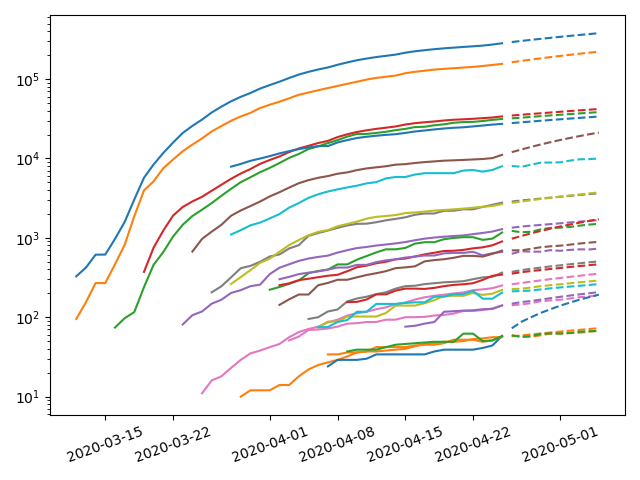
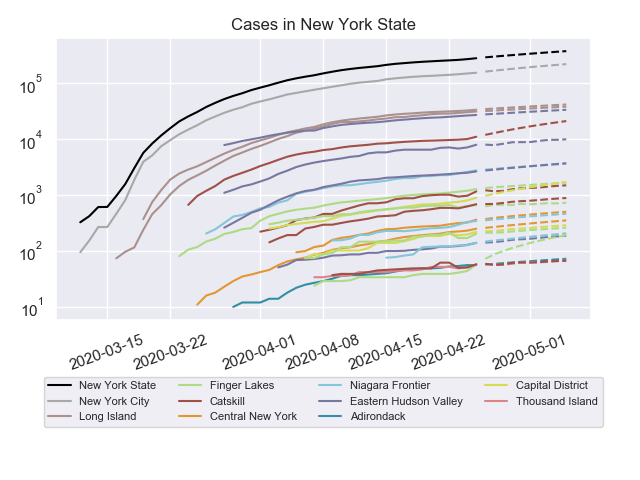
Adding Files

diff --git a/AutoCorrelation_County.py b/AutoCorrelation_County.py
@@ -1,91 +1,124 @@
 import datetime
 import pandas as pd
 import matplotlib.pyplot as plt
+import seaborn as sns
 
-def Build_Data()
-    Data=pd.read_csv('data/csv/time_series/covid_NY_TS_counties_long.csv',index_col=None)
-    Data['date']=pd.to_datetime(Data['date'],yearfirst=True)
-    Counties=pd.unique(Data['County'])
-    Dates=pd.unique(Data['date'])
-    Counties_Cases=pd.DataFrame()
-    Counties_Deaths=pd.DataFrame()
+Data = pd.read_csv('data/csv/time_series/covid_NY_TS_counties_long.csv', index_col=None)
+Data['date'] = pd.to_datetime(Data['date'], yearfirst=True)
+Counties = pd.unique(Data['County'])
+
+sns.set()
+
+
+def Build_Data():
+    Data = pd.read_csv('data/csv/time_series/covid_NY_TS_counties_long.csv', index_col=None)
+    Data['date'] = pd.to_datetime(Data['date'], yearfirst=True)
+    Counties = pd.unique(Data['County'])
+    Dates = pd.unique(Data['date'])
+    Counties_Cases = pd.DataFrame()
+    Counties_Deaths = pd.DataFrame()
     plt.figure()
-    for county in Counties :
-        CountyData=Data[Data['County']==county]
-        CountyData=CountyData.set_index('date')
-        CountyData=CountyData.asfreq('d')
-        Counties_Cases[county]=CountyData['cases']
-        Counties_Deaths[county]=CountyData['deaths']
-    Counties_Deaths=Counties_Deaths.astype('float64')
-    Counties_Cases=Counties_Cases.astype('float64'
-    return (Counties_Deaths,Counties_Cases,Dates)
-Counties_Deaths,Counties_Cases,Dates=Build_Data()
-#plt.legend()
-#%%
+    for county in Counties:
+        CountyData = Data[Data['County'] == county]
+        CountyData = CountyData.set_index('date')
+        CountyData = CountyData.asfreq('d')
+        Counties_Cases[county] = CountyData['cases']
+        Counties_Deaths[county] = CountyData['deaths']
+    Counties_Deaths = Counties_Deaths.astype('float64')
+    Counties_Cases = Counties_Cases.astype('float64')
+    return (Counties_Deaths, Counties_Cases, Dates)
+
+
+Counties_Deaths, Counties_Cases, Dates = Build_Data()
+# plt.legend()
+# %%
 import numpy as np
+
 plt.figure()
-d=2
-Data_Cases=Counties_Cases
-Data_Deaths=Counties_Deaths
+d = 1
+Data_Cases = Counties_Cases
+Data_Deaths = Counties_Deaths
 for i in range(d):
-    Data_Cases=Data_Cases.diff()
-    Data_Deaths=Data_Deaths.diff()
+    Data_Cases = Data_Cases.diff()
+    Data_Deaths = Data_Deaths.diff()
 
 for county in Counties:
-    if len(Data_Deaths[county].dropna())>30:
-        index=np.linspace(-len(Data_Deaths[county].dropna())+1,len(Data_Deaths[county].dropna())-1,2*len(Data_Deaths[county].dropna())-1)
-        corr=np.correlate(Data_Deaths[county].dropna(),Data_Cases[county].dropna(),mode='full')
-        plt.plot(index,corr/np.max(np.abs(corr)),label=county)
-        print(county,index[np.argmax(corr)])
+    if len(Data_Deaths[county].dropna()) > 30:
+        index = np.linspace(-len(Data_Deaths[county].dropna()) + 1, len(Data_Deaths[county].dropna()) - 1,
+                            2 * len(Data_Deaths[county].dropna()) - 1)
+        corr = np.correlate(Data_Deaths[county].dropna(), Data_Cases[county].dropna(), mode='full')
+        plt.plot(index, corr / np.max(np.abs(corr)), label=county)
+        print(county, index[np.argmax(corr)])
+plt.tight_layout(rect=[0, 0, 0.75, 1])
+plt.title('Cross Correlation between cases and deaths after {} differentiations'.format(d))
+plt.legend(bbox_to_anchor=(0.5, -0.20), loc="lower center", fontsize=8, ncol=4)
 plt.show()
 
-
-#%%
+# %%
+Regions = pd.read_csv('data/csv/time_series/NY_counties_regions.csv', index_col='County')
+Palette = dict(Regions[['Region', 'Color']].to_dict('split')['data'])
+plt.rcParams["axes.prop_cycle"] = plt.cycler("color", plt.cm.Set3.colors)
 from statsmodels.tsa.statespace.sarimax import SARIMAX
-from statsmodels.graphics.tsaplots import plot_pacf,plot_acf
-data=Counties_Cases
+from statsmodels.graphics.tsaplots import plot_pacf, plot_acf
+
+data = Counties_Cases
 plt.figure()
-k=4
+k = 4
 for d in range(k):
-    plt.subplot(k,1,d+1)
+    plt.subplot(k, 1, d + 1)
     plt.plot(data)
-    plt.title(str(d)+' differentiations')
-    data=data.diff().fillna(0)
-d=2
-data=Counties_Cases
+    plt.title(str(d) + ' differentiations')
+    data = data.diff().fillna(0)
+d = 2
+data = Counties_Cases
 for i in range(d):
-    data=data.diff().fillna(0)
-#plot_pacf(data['New York'])
+    data = data.diff().fillna(0)
+# plot_pacf(data['New York'])
 plt.show()
-p=3
-#plot_acf(data['New York'])
-q=1
+p = 3
+# plot_acf(data['New York'])
+q = 1
 plt.show()
 plt.figure()
-for county in Counties :
-    try :
-        if len(Counties_Cases[county].dropna())>10 and county!='Madison':
+List_Region = pd.unique(Regions['Region'])
+dico = dict([(List_Region[i], 0) for i in range(len(List_Region))])
+for county in Counties:
+    try:
+        if len(Counties_Cases[county].dropna()) > 10 and county != 'Madison':
             print(county)
-            model=SARIMAX(Counties_Cases[county].dropna(),order=(3,2,1))
-            results=model.fit(disp=0)
-            fc=results.forecast(10)
-            pl=plt.plot(Counties_Cases[county].dropna().index,Counties_Cases[county].dropna())
-            plt.plot([Counties_Cases[county].dropna().index[-1] + datetime.timedelta(days=i+1) for i in range(len(fc))],fc,'--',color=pl[0].get_color())
-            #plt.plot([Counties_Cases[county].dropna().index[-1] + datetime.timedelta(days=i+1)for i in range(len(fc))],conf[:,1],'-.',color=pl[0].get_color())
-            #plt.plot([Counties_Cases[county].dropna().index[-1] + datetime.timedelta(days=i+1)for i in range(len(fc))],conf[:,0],'-.',color=pl[0].get_color())
-    except :
+            model = SARIMAX(Counties_Cases[county].dropna(), order=(3, 2, 1))
+            results = model.fit(disp=0)
+            fc = results.forecast(10)
+            pl = plt.plot(Counties_Cases[county].dropna().index, Counties_Cases[county].dropna(),
+                          label=Regions['Region'].loc[county] if dico[Regions['Region'].loc[county]] == 0 else "",
+                          color=Palette[Regions['Region'].loc[county]])
+            plt.plot(
+                [Counties_Cases[county].dropna().index[-1] + datetime.timedelta(days=i + 1) for i in range(len(fc))],
+                fc, '--', color=pl[0].get_color())
+            dico[Regions['Region'].loc[county]] = 1
+            # plt.plot([Counties_Cases[county].dropna().index[-1] + datetime.timedelta(days=i+1)for i in range(len(fc))],conf[:,1],'-.',color=pl[0].get_color())
+            # plt.plot([Counties_Cases[county].dropna().index[-1] + datetime.timedelta(days=i+1)for i in range(len(fc))],conf[:,0],'-.',color=pl[0].get_color())
+    except:
         print('Impossible')
+
+# plt.tight_layout(rect=[0, 0, 0.75, 1])
+plt.title('Cases in New York State')
+plt.legend(bbox_to_anchor=(0.5, -0.40), loc="lower center", fontsize=8, ncol=4)
 plt.yscale('log')
 plt.xticks(rotation=20)
 plt.show()
-#%%
-model=SARIMAX(Counties_Cases['New York'].loc[Counties_Cases[['Westchester','Nassau']].dropna().index].fillna(method='pad'),exog=Counties_Cases[['Westchester','Nassau']].dropna(),order=(3,2,1))
-results=model.fit(disp=0)
-fc=results.forecast(1)
-pl=plt.plot(Counties_Cases['New York'].dropna().index,Counties_Cases[county].dropna())
-plt.plot([Counties_Cases['New York'].dropna().index[-1] + datetime.timedelta(days=i+1) for i in range(len(fc))],fc,'--',color=pl[0].get_color())
-#plt.plot([Counties_Cases['New York'].dropna().index[-1] + datetime.timedelta(days=i+1)for i in range(len(fc))],conf[:,1],'-.',color=pl[0].get_color())
-#plt.plot([Counties_Cases['New York'].dropna().index[-1] + datetime.timedelta(days=i+1)for i in range(len(fc))],conf[:,0],'-.',color=pl[0].get_color())
+# %%
+model = SARIMAX(
+    Counties_Cases['New York'].loc[Counties_Cases[['Westchester', 'Nassau']].dropna().index].fillna(method='pad'),
+    exog=Counties_Cases[['Westchester', 'Nassau']].dropna(), order=(3, 2, 1))
+results = model.fit(disp=0)
+fc = results.forecast(1)
+pl = plt.plot(Counties_Cases['New York'].dropna().index, Counties_Cases[county].dropna())
+plt.plot([Counties_Cases['New York'].dropna().index[-1] + datetime.timedelta(days=i + 1) for i in range(len(fc))], fc,
+         '--', color=pl[0].get_color())
+# plt.plot([Counties_Cases['New York'].dropna().index[-1] + datetime.timedelta(days=i+1)for i in range(len(fc))],conf[:,1],'-.',color=pl[0].get_color())
+# plt.plot([Counties_Cases['New York'].dropna().index[-1] + datetime.timedelta(days=i+1)for i in range(len(fc))],conf[:,0],'-.',color=pl[0].get_color())
+
 plt.yscale('log')
 plt.xticks(rotation=20)
 plt.show()

diff --git a/AutoCorrelation_State.py b/AutoCorrelation_State.py
@@ -1,5 +1,7 @@
 import os
 import pandas as pd
+import numpy as np
+import matplotlib.pyplot as plt
 
 all_files = [i[0] + '/' + files for i in os.walk('data/csv', False) for files in i[2] if files[:2].isnumeric()]
 d0 = pd.read_csv(all_files[0])
@@ -27,20 +29,25 @@ for state in States:
     data=data.apply(pd.to_numeric)
     data = data.interpolate(method='linear')
     if (data['Confirmed'] > 1000).all():
-        FullData_Cases['Confirmed ' + state] = data['Confirmed']
+        FullData_Cases[state] = data['Confirmed']
     if (data['Deaths'] > 100).any():
-        FullData_Deaths['Deaths ' + state] = data['Deaths']
+        FullData_Deaths[state] = data['Deaths']
 
 #%%
 from Autoregressive import *
 
-model=VAR(p=2,FullData=FullData_Cases,num_val=7)
+model=VAR(p=1,FullData=FullData_Cases,num_val=7)
 model.fit()
-model.predict(7,plot=True,savefig=True,path='CasesPredictionValidation')
+score=model.predict(7,plot=True,score=True)
+print("Mean score Cases : {:.3f}".format(np.mean(score)))
 
+model=VAR(p=1,FullData=FullData_Deaths,num_val=7)
+model.fit()
+score=model.predict(7,plot=True,score=True)
+print("Mean score Deaths : {:.3f}".format(np.mean(score)))
 #%%
-DataArima=FullData_Deaths['Deaths Arizona'].values
-dates=FullData_Deaths['Deaths Arizona'].index
+DataArima=FullData_Deaths['Arizona'].values
+dates=FullData_Deaths['Arizona'].index
 Diff=[DataArima]
 plt.figure()
 for i in range(4):
@@ -70,16 +77,35 @@ plt.show()
 q=1
 #%%
 from statsmodels.tsa.arima_model import ARIMA
-model = ARIMA(DataArima, order=(p,d,q))
-results=model.fit(disp=0)
-print(results.summary())
-fc, se, conf = results.forecast(10, alpha=0.05)
-plt.figure()
-plt.plot([dates[-1]+datetime.timedelta(days=i+1) for i in range(len(fc))],fc,'k--',label='forecast')
-plt.plot([dates[-1]+datetime.timedelta(days=i+1) for i in range(len(fc))],conf[:,0],'k-.',label='Confidence interval')
-plt.plot([dates[-1]+datetime.timedelta(days=i+1) for i in range(len(fc))],conf[:,1],'k-.')
-plt.xticks(rotation=20)
-plt.plot(dates,DataArima,'k-',label='actual')
-plt.legend()
-plt.show()
-
+print('plop')
+for p in range(4):
+    for q in range(4):
+        scores=[]
+        print('-----------')
+        print('p=',p)
+        print('q=',q)
+        for state in FullData_Deaths.columns:
+            try :
+                DataTrain=FullData_Deaths[state].iloc[:-7]
+                dates=FullData_Deaths.index
+                DataValidation=FullData_Deaths[state].iloc[-7:]
+                model = ARIMA(DataTrain, order=(p,d,q))
+                results=model.fit(disp=0)
+                fc, se, conf = results.forecast(7, alpha=0.05)
+                Y = DataValidation.values
+                Yhat = fc
+                Ybar= np.mean(Y)
+                R2=1-sum((Y-Yhat)**2)/sum((Y-Ybar)**2)
+                scores.append(R2)
+            except :
+                ()
+                #print(state,'Impossible to estimate')
+            #     plt.figure()
+            #     plt.plot(dates[:len(DataTrain)], DataTrain, '-', label='actual')
+            #     plt.plot(dates[len(DataTrain):],fc,'--',label='forecast')
+            #     plt.plot(dates[len(DataTrain):],DataValidation,'-',label='Validation')
+            # plt.xticks(rotation=20)
+            # plt.legend()
+            #plt.show()
+        print('score', np.mean(scores))
+        print(len(scores))

diff --git a/Autoregressive.py b/Autoregressive.py
@@ -32,8 +32,10 @@ class VAR:
         T = len(self.Observed)
         E = Y - Y_pred
 
-    def predict(self, n, plot=False, savefig=False, path=None):
+    def predict(self, n, plot=False, savefig=False, path=None,score=False):
         k = len(self.Observed[0])
+        if score :
+            scores=[]
         for m in range(n):
             Z_pred = np.array([[1] + [self.Data[t - i - 1][j] for i in range(self.p) for j in range(k)] for t in
                                range(self.p + 1, len(self.Data) + 1)]).transpose()
@@ -42,6 +44,12 @@ class VAR:
             self.dates.append(self.dates[-1] + datetime.timedelta(days=1))
         if plot:
             for i in range(len(self.titles)):
+                if score :
+                    Y=self.Data_Validation[:, i]
+                    Yhat=self.Data[len(self.Observed):][:, i]
+                    Ybar=np.mean(Y)
+                    R2=1-sum((Y-Yhat)**2)/sum((Y-Ybar)**2)
+                    scores.append(R2)
                 plt.plot(self.dates[:len(self.Observed)], self.Data[:len(self.Observed)][:, i], 'k-',
                          label='Past Observed')
                 if (self.Data_Validation == self.Data_Validation).all():
@@ -51,7 +59,11 @@ class VAR:
                          label='Prediction')
                 plt.legend(framealpha=0)
                 plt.xticks(rotation=20)
+                #if score :
+                    #plt.tight_layout()
+                    #plt.text(0,0,"R2 score : {:.3f}".format(R2))
                 plt.title(self.titles[i])
                 if savefig:
                     plt.savefig(path + '/' + self.titles[i])
                 plt.show()
+        return(scores)

diff --git a/Stats.py b/Stats.py
@@ -22,6 +22,8 @@ Data['Cases per capita']=Test['Pct_positive']
 Data=Data.dropna()
 sns.set()
 plt.figure()
-
-g=sns.pairplot(Data,hue='Region',palette=Palette,y_vars=['Fatality Rate','Positive tests rate'],x_vars=['Population','Diabetes Rate'],diag_kind='hist')
+g=sns.pairplot(Data,hue='Region',palette=Palette,vars=['Population','Diabetes Rate','Fatality Rate'])
+g._legend.remove()
+plt.tight_layout(rect=[0, 0, 0.75, 1])
+plt.legend(bbox_to_anchor=(1.04, 0.5), loc="center left",fontsize=8)
 plt.show()
